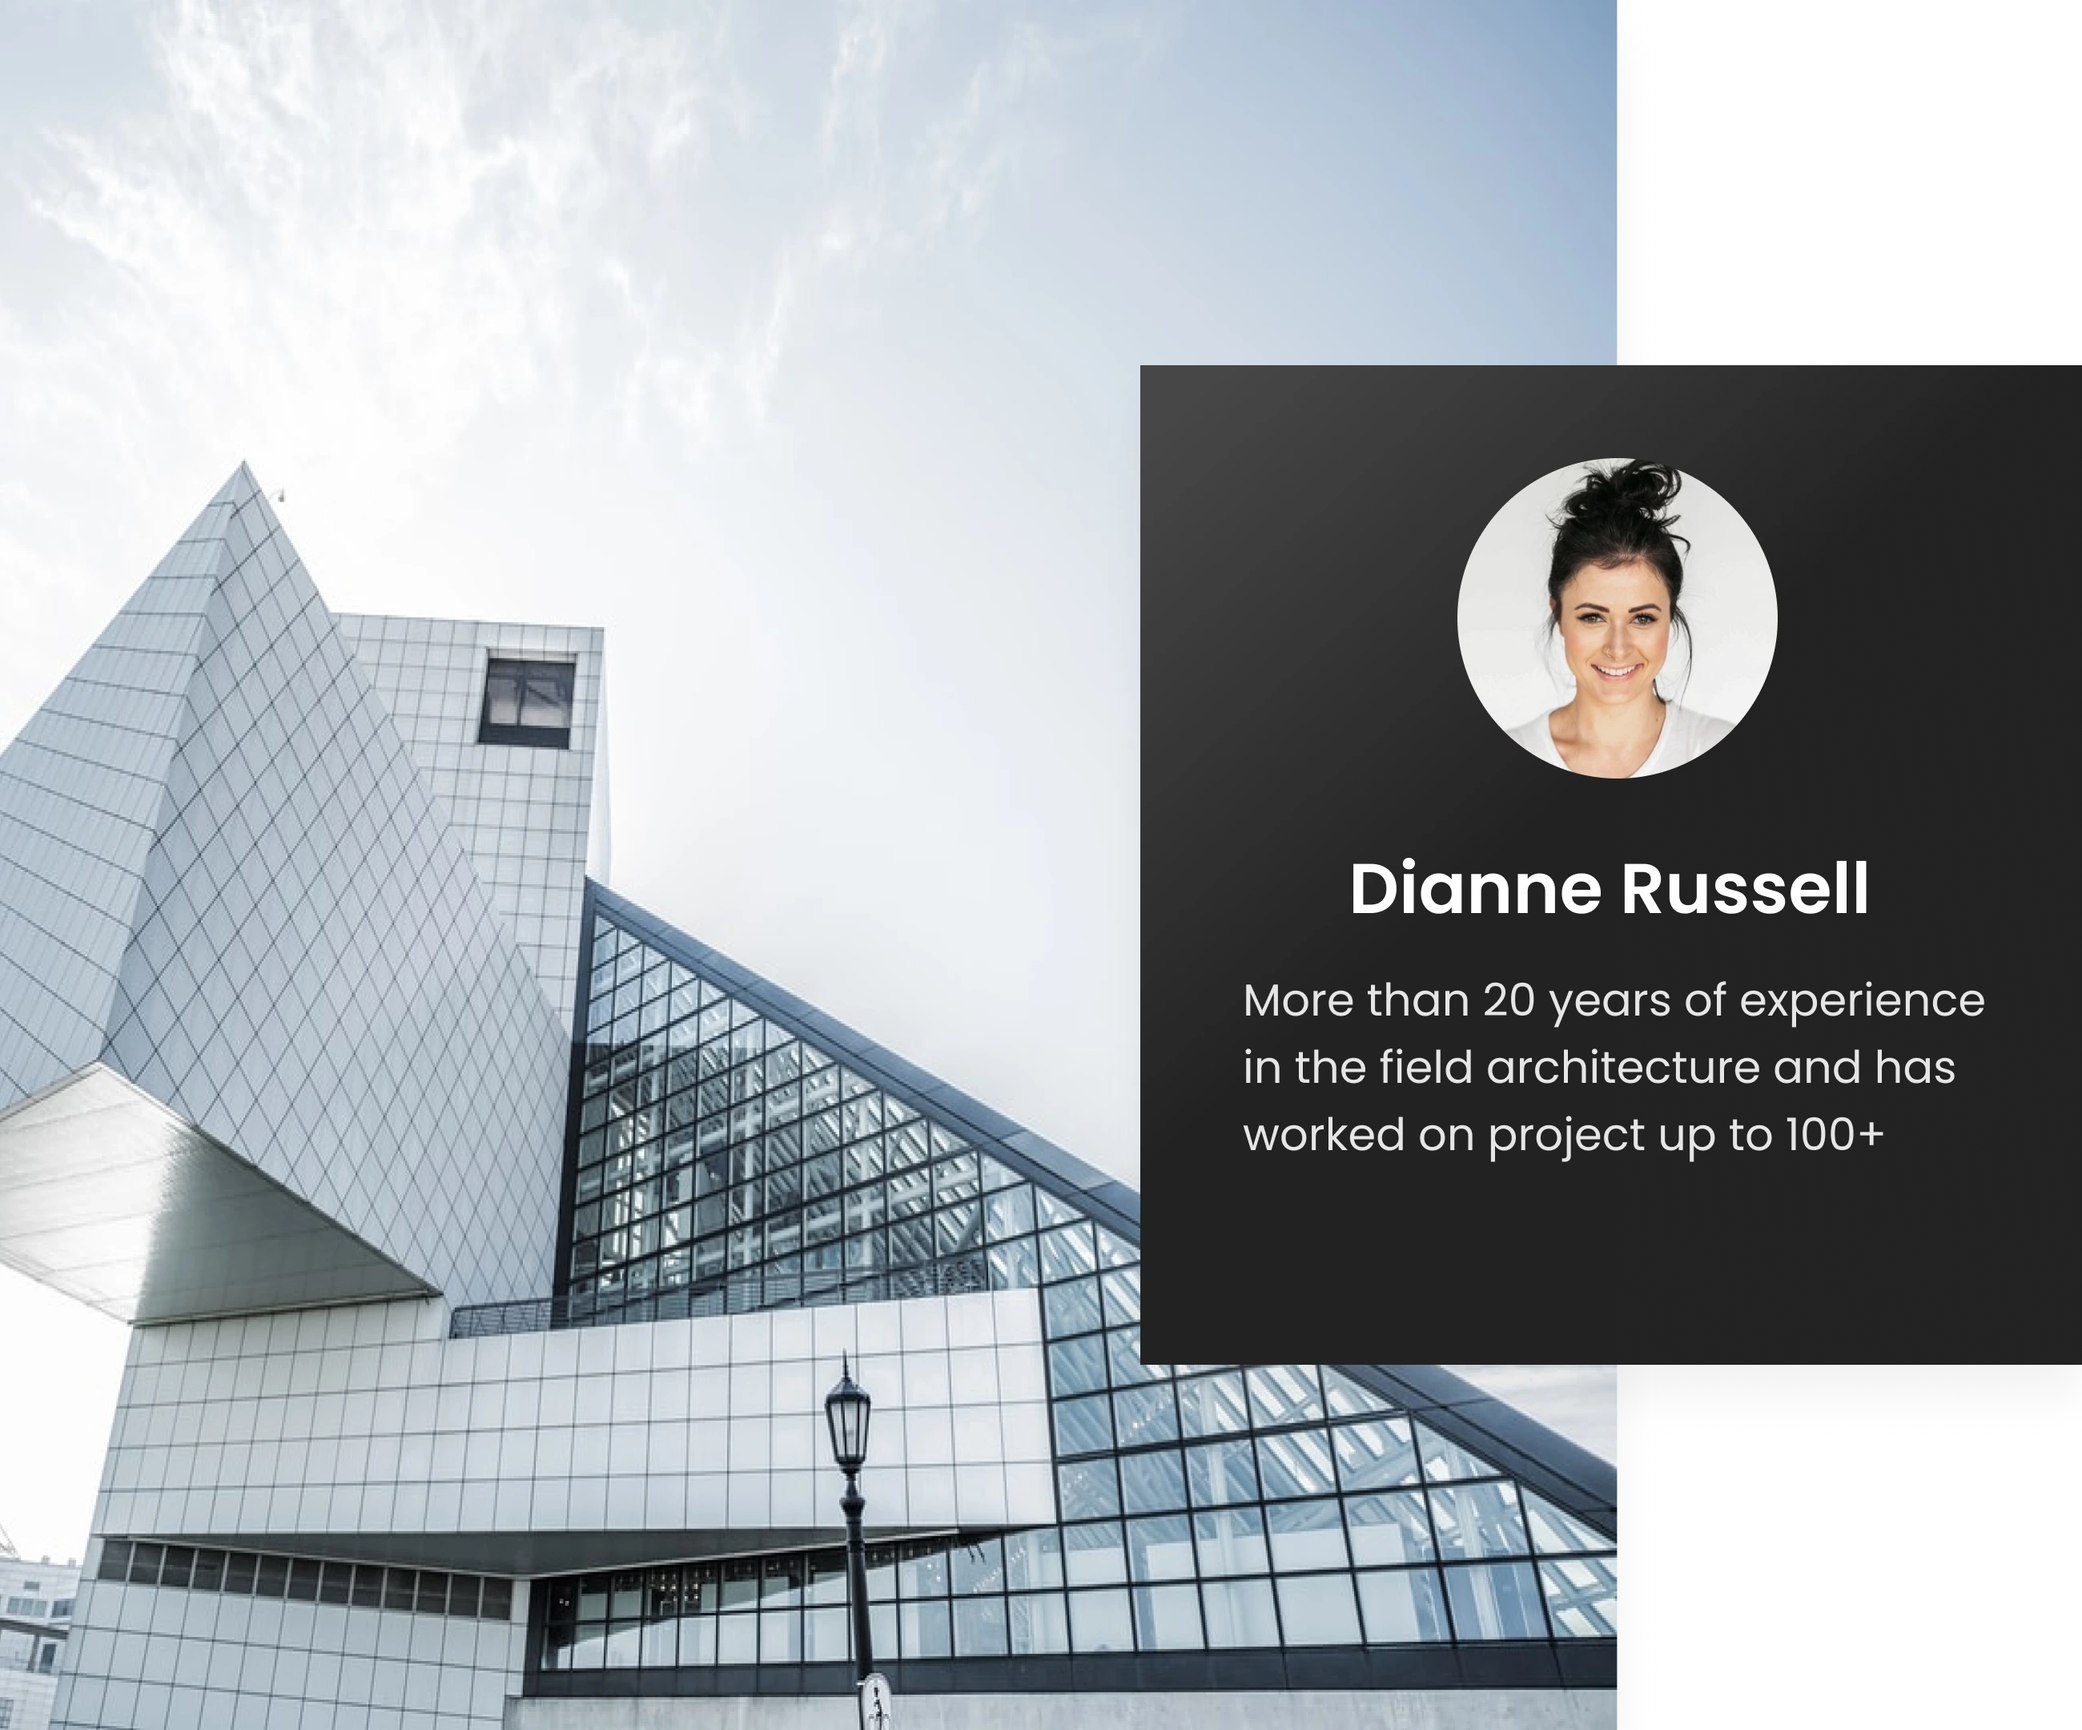
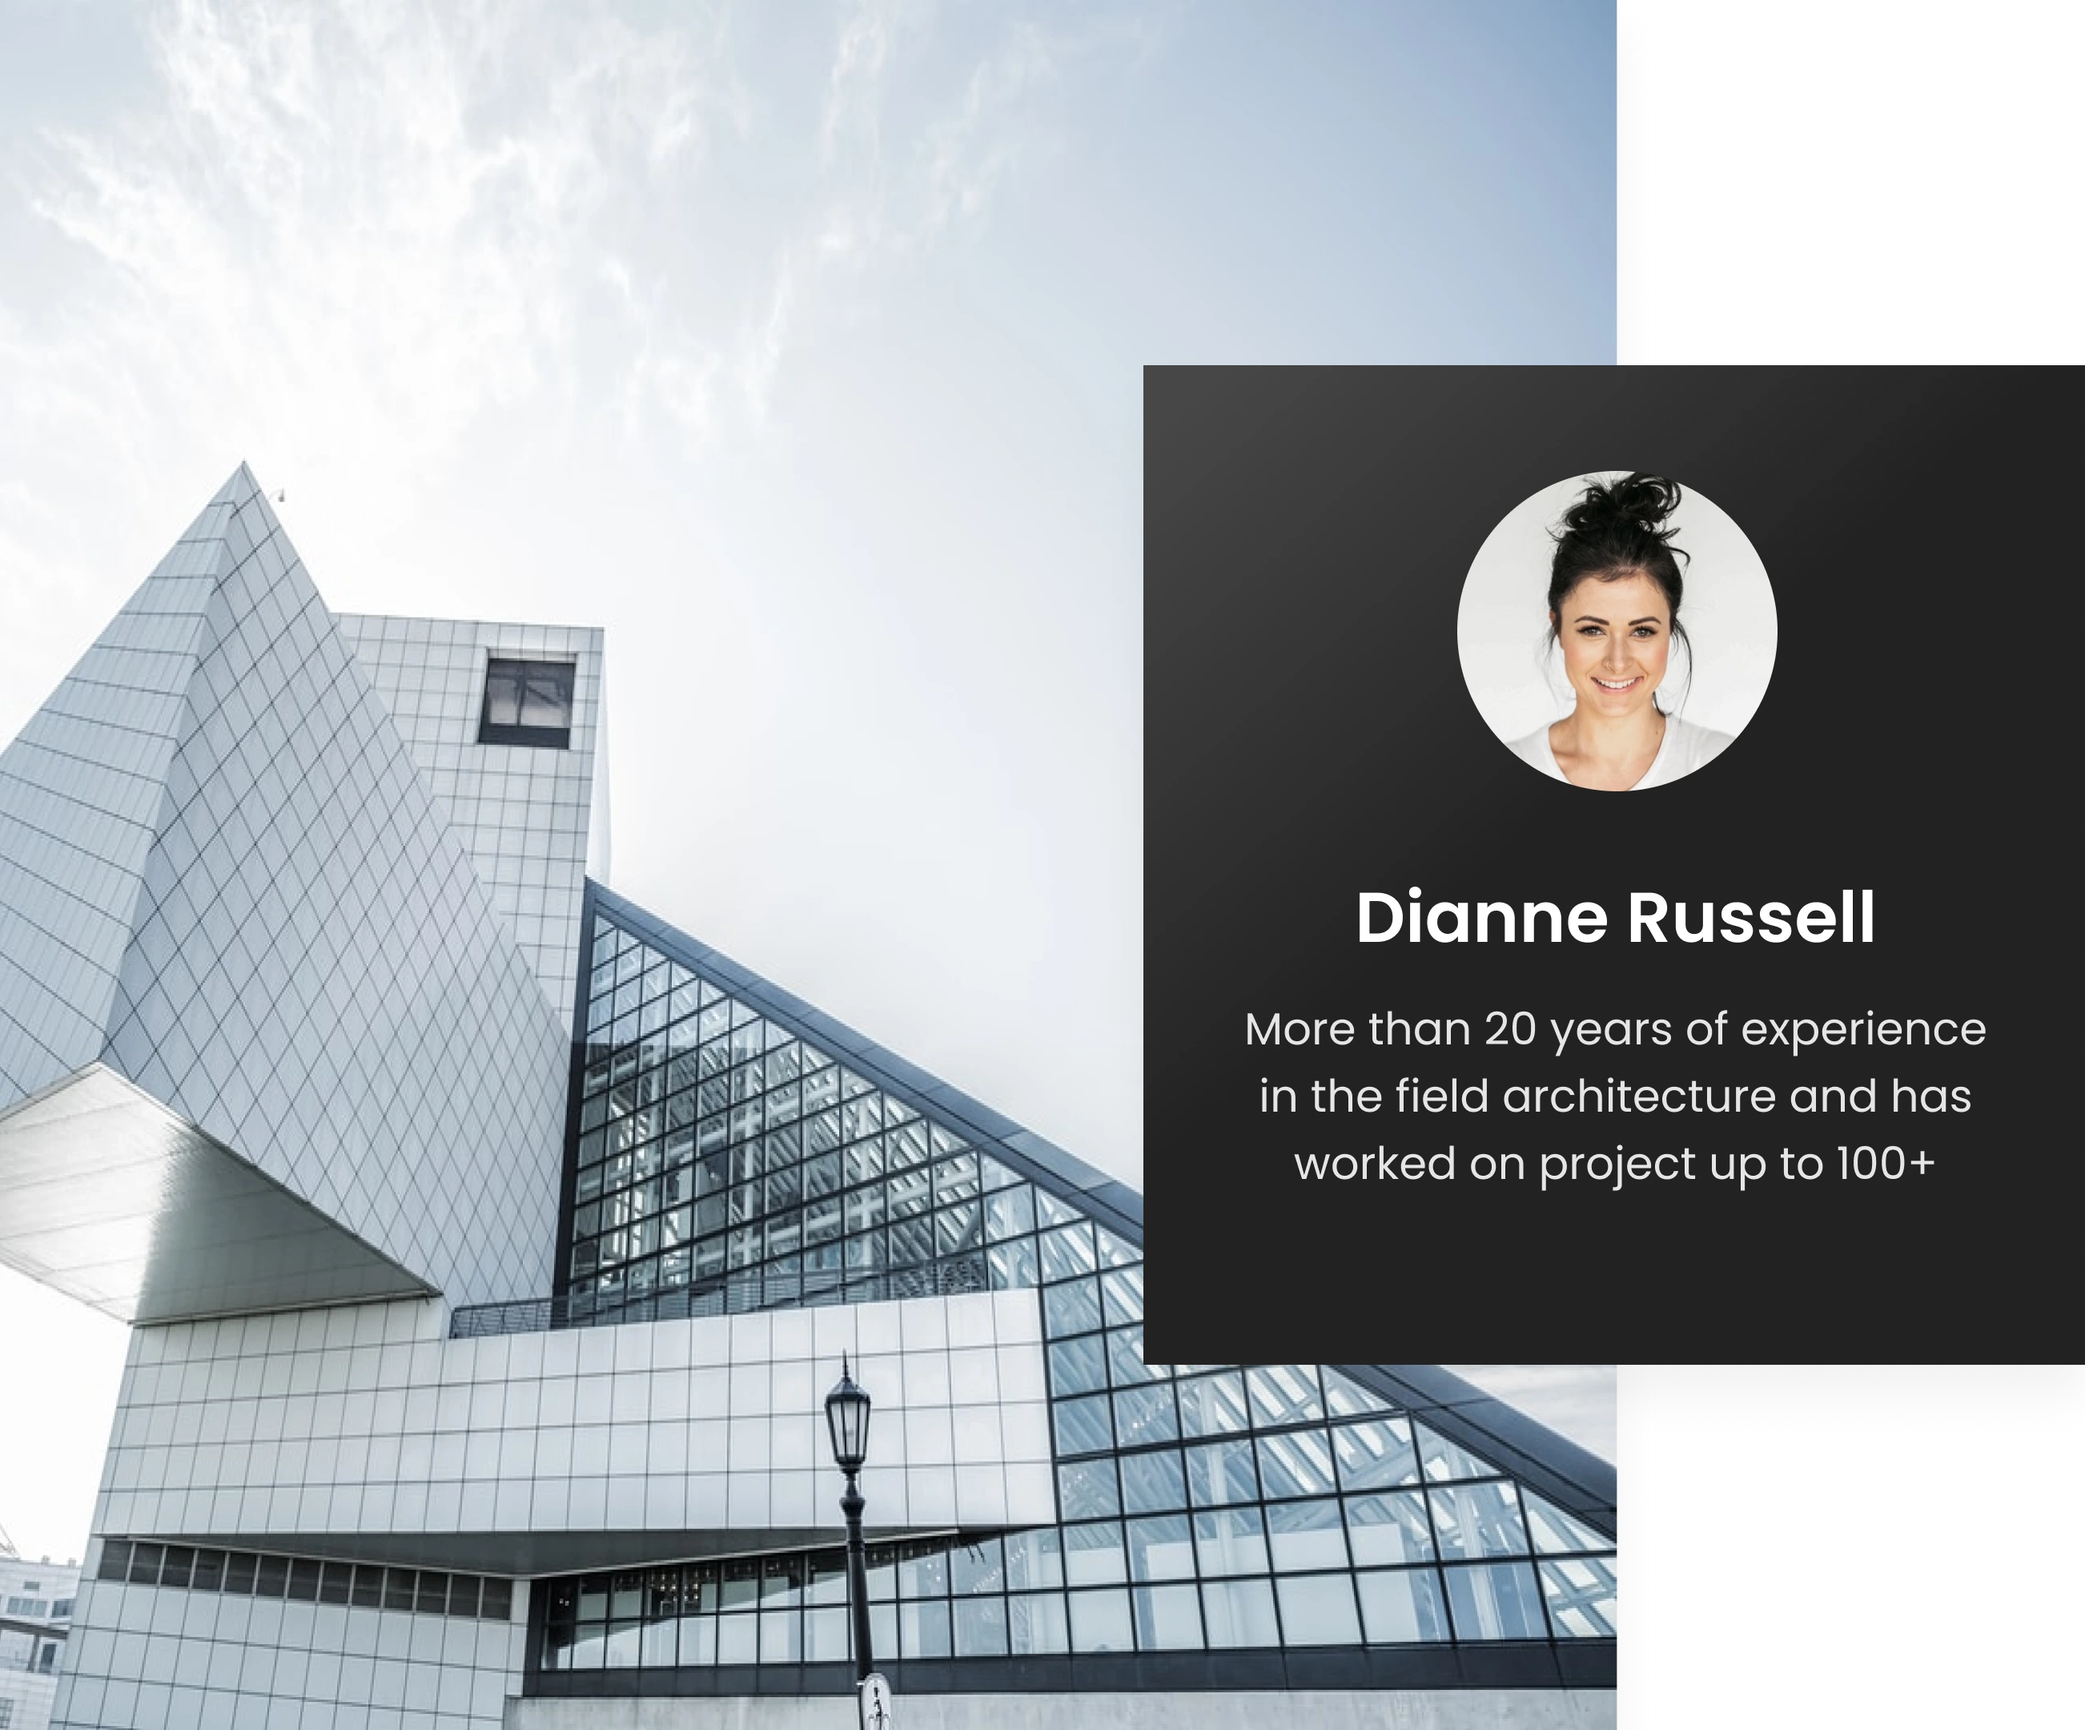
updates

diff --git a/src/components/Header.jsx b/src/components/Header.jsx
@@ -111,7 +111,7 @@ const Header = () => {
               <li>
                 <a
                   onClick={() => setOpen(false)}
-                  href="#"
+                  href="#works"
                   className="font-medium text-lg leading-7 relative group text-gray-50"
                 >
                   Home
@@ -121,7 +121,7 @@ const Header = () => {
               <li>
                 <a
                   onClick={() => setOpen(false)}
-                  href="#"
+                  href="#term"
                   className="font-medium text-lg leading-7 relative group text-gray-50"
                 >
                   Services
@@ -131,7 +131,7 @@ const Header = () => {
               <li>
                 <a
                   onClick={() => setOpen(false)}
-                  href="#"
+                  href="#privacy"
                   className="font-medium text-lg leading-7 relative group text-gray-50 text-nowrap"
                 >
                   Find a Team
@@ -141,7 +141,7 @@ const Header = () => {
               <li>
                 <a
                   onClick={() => setOpen(false)}
-                  href="#"
+                  href="#about"
                   className="font-medium text-lg leading-7 relative group text-gray-50"
                 >
                   About
@@ -151,7 +151,7 @@ const Header = () => {
               <li>
                 <a
                   onClick={() => setOpen(false)}
-                  href="#"
+                  href="#license"
                   className="font-medium text-lg leading-7 relative group text-gray-50"
                 >
                   Articals
@@ -161,7 +161,7 @@ const Header = () => {
               <li>
                 <a
                   onClick={() => setOpen(false)}
-                  href="#"
+                  href="#documentation"
                   className="font-medium text-lg leading-7 relative group text-gray-50"
                 >
                   Portfolio
@@ -171,7 +171,7 @@ const Header = () => {
               <li>
                 <a
                   onClick={() => setOpen(open)}
-                  href="#"
+                  href="#about"
                   className="font-medium text-lg leading-7 relative group text-gray-50 text-nowrap"
                 >
                   Contact-us
@@ -202,7 +202,7 @@ const Header = () => {
             <p className="font-bold text-4xl max-lg:text-3xl max-md:text-2xl leading-xl text-white">
               300<span className="text-dark-blue">+</span>
             </p>
-            <p className="max-w-24 font-semibold text-base max-md:text-sm leading-7 text-gray-50">
+            <p className="lg:max-w-24 font-semibold text-base max-md:text-sm leading-7 text-gray-50">
               Happy Client
             </p>
           </div>
@@ -210,7 +210,7 @@ const Header = () => {
             <p className="font-bold text-4xl max-lg:text-3xl max-md:text-2xl leading-xl text-white">
               900<span className="text-dark-blue">+</span>
             </p>
-            <p className="max-w-24 font-semibold text-base max-md:text-sm leading-7 text-gray-50">
+            <p className="lg:max-w-24 font-semibold text-base max-md:text-sm leading-7 text-gray-50">
               Amazing projects
             </p>
           </div>
@@ -218,7 +218,7 @@ const Header = () => {
             <p className="font-bold text-4xl max-lg:text-3xl max-md:text-2xl leading-xl text-white">
               20<span className="text-dark-blue">+</span>
             </p>
-            <p className="max-w-24 font-semibold text-base max-md:text-sm leading-7 text-gray-50">
+            <p className="lg:max-w-24 font-semibold text-base max-md:text-sm leading-7 text-gray-50">
               Awards Winning
             </p>
           </div>

diff --git a/src/components/Brand.jsx b/src/components/Brand.jsx
@@ -11,7 +11,7 @@ const Brand = () => {
     var settings = {
         dots: false,
         infinite: true,
-        speed: 3000,
+        speed: 6000,
         slidesToShow: 5,
         slidesToScroll: 1,
         arrows: false,
@@ -44,32 +44,32 @@ const Brand = () => {
         ]
     };
     return (
-        <section className="py-14 max-lg:py-12 max-md:py-10 max-sm:py-8 brand">
+        <section className="py-14 max-lg:py-8 max-sm:py-6 brand">
             <div className="max-w-xxl px-4 mx-auto">
                 <Slider {...settings}>
                     <div>
                         <div className="flex justify-center">
-                            <img src={img1} alt="img1" className="max-w-[163px] w-full cursor-pointer" />
+                            <img src={img1} alt="img1" className="max-w-[163px] max-sm:max-w-[150px] w-full cursor-pointer" />
                         </div>
                     </div>
                     <div>
                         <div className="flex justify-center">
-                            <img src={img2} alt="img2" className="max-w-[143px] w-full cursor-pointer" />
+                            <img src={img2} alt="img2" className="max-w-[143px] max-sm:max-w-[130px] w-full cursor-pointer" />
                         </div>
                     </div>
                     <div>
                         <div className="flex justify-center">
-                            <img src={img3} alt="img3" className="max-w-[126px] w-full cursor-pointer" />
+                            <img src={img3} alt="img3" className="max-w-[126px] max-sm:max-w-[120px] w-full cursor-pointer" />
                         </div>
                     </div>
                     <div>
                         <div className="flex justify-center">
-                            <img src={img4} alt="img4" className="max-w-[146px] w-full cursor-pointer" />
+                            <img src={img4} alt="img4" className="max-w-[146px] max-sm:max-w-[130px] w-full cursor-pointer" />
                         </div>
                     </div>
                     <div>
                         <div className="flex justify-center">
-                            <img src={img5} alt="img5" className="max-w-[196px] w-full cursor-pointer" />
+                            <img src={img5} alt="img5" className="max-w-[196px] max-sm:max-w-[150px] w-full cursor-pointer" />
                         </div>
                     </div>
                     

diff --git a/src/components/Footer.jsx b/src/components/Footer.jsx
@@ -119,7 +119,7 @@ const Footer = () => {
                         </div>
                     </div>
                 </div>
-                <div className='max-w-xxl mx-auto px-4 pb-20 pt-[420px] max-lg:pt-[450px] max-lg:pb-14 max-sm:pb-10 max-md:pt-80 max-sm:pt-[300px]'>
+                <div className='max-w-xxl mx-auto px-4 pb-20 pt-[420px] max-lg:pt-[450px] max-lg:pb-14 max-sm:pb-10 max-md:pt-80 max-sm:pt-[325px]'>
                     <div className='flex flex-wrap flex-row -mx-3 justify-between'>
                         <div className='w-full md:w-6/12 px-4 max-sm:text-center'>
                             <div>

diff --git a/src/components/News.jsx b/src/components/News.jsx
@@ -38,7 +38,7 @@ const News = () => {
                         News & Update
                     </h2>
                 </div>
-                <div className="flex flex-wrap flex-row -mx-3 pt-9 max-sm:pt-1 justify-center">
+                <div className="flex flex-wrap flex-row -mx-3 pt-9 max-lg:pt-5 max-sm:pt-1 justify-center">
                     {NEWS.map((obj, index) => (
                         <div key={index} className="w-full sm:w-1/2 lg:w-1/3 px-4 pt-6">
                             <div className="">

diff --git a/src/components/Meet.jsx b/src/components/Meet.jsx
@@ -3,7 +3,7 @@ import dianne from "../assets/images/dianne-russell.webp"
 
 const Meet = () => {
     return (
-        <section className="py-16 max-md:py-12 max-sm:py-10">
+        <section id="documentation" className="py-16 max-md:py-12 max-sm:py-10">
             <div className="max-w-xxl mx-auto px-4 w-full">
                 <div className="flex flex-wrap items-center justify-center">
                     <div className="w-full lg:w-1/2 px-3">
